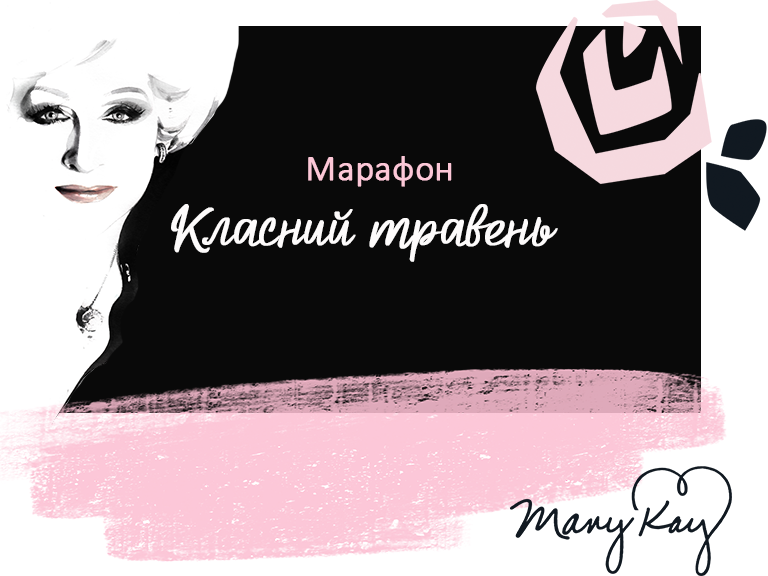
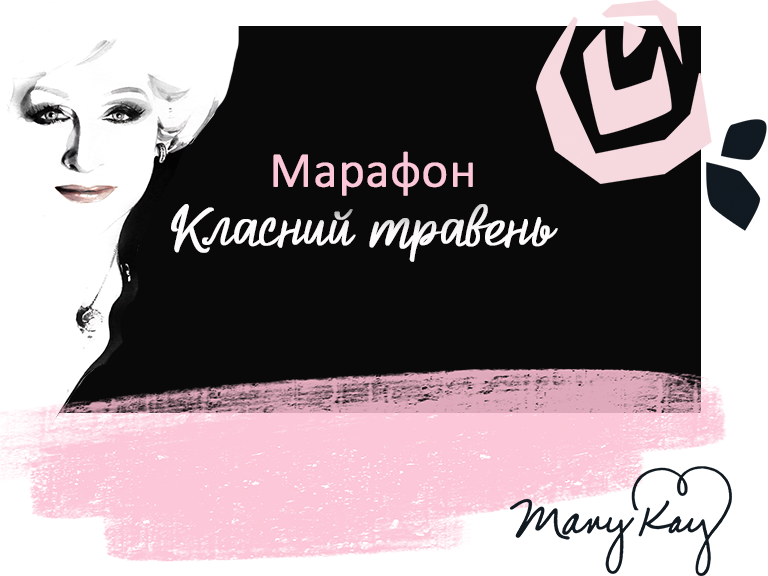
add new header

Changed region(s): [[0.3438, 0.25, 0.625, 0.375], [0.5, 0.375, 0.5312, 0.4062]]

diff --git a/index.html b/index.html
@@ -16,7 +16,8 @@
 <body>
     <div class="myheader">
         <div class="headermainphoto">
-            <img src="template/img/header-big.png" alt="Логотип Виклику">
+                <img  class="mobile" src="template/img/header.png" alt="Логотип Виклику">
+            <img class="desctop"src="template/img/header-big.png" alt="Логотип Виклику">
         </div>
     </div>
     <div class=" mainblock ">
@@ -30,7 +31,7 @@
                         <img class="orangewave2" src="template/img/Book.png" alt="">
                         <div class="text-hi">
                             <h2>Вітаємо, (username)!</h2>
-                            <p>Завантажте 10+ фото з різних класів з краси та отримуйте приємні сюрпризи від Компанії.
+                            <p>Завантажте 10+ фото з різних класів <br>з краси та отримайте <br>чашку "Разом з Мері Кей".
                             </p>
                             <p>Завантажених фото: ( 1) </p>
                         </div>

diff --git a/template/style.css b/template/style.css
@@ -9,6 +9,10 @@ body {
   font-variant: normal;
 }
 
+.mobile{
+  display: none;
+}
+
 .img-thumbnail {
   width: 100%;
   height: 100%;
@@ -54,7 +58,7 @@ body {
 
 } 
 .main-text{
-  padding-top: 10%;
+  padding-top: 3%;
  
 }
 
@@ -329,7 +333,22 @@ body {
   display: none;
 }
 
+.text-hi h2{
+  font-size: 2.6rem;
+}
+.text-hi p{
+  font-size: 1.5rem;
+}
+
 @media (max-width: 575.98px) {
+
+  .mobile{
+    display: block;
+  }
+  .desctop{
+    display: none;
+  }
+
 
   .orangewave2{
     background-color: #fcdfe8;
